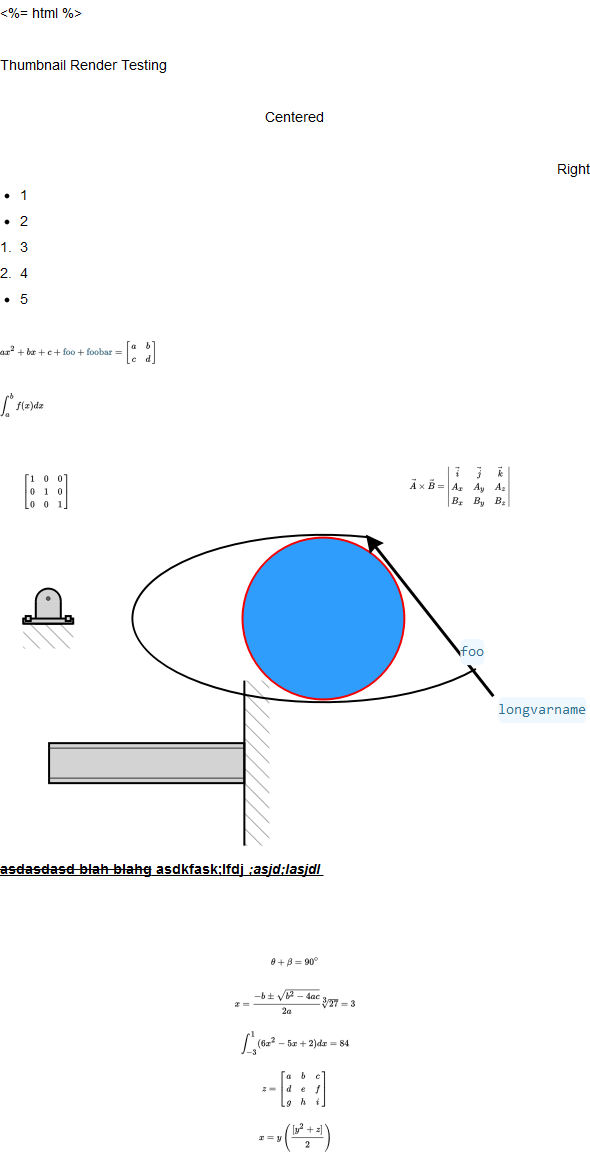
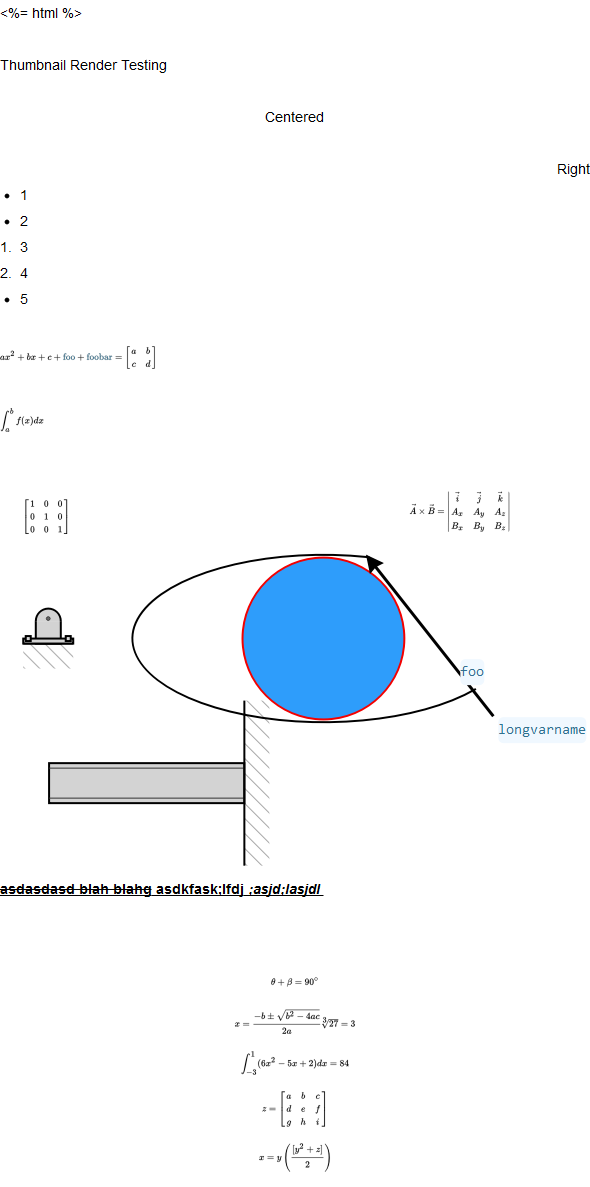
Fixes child processes for thumbnail.js, fixes test-html.js.

diff --git a/thumbnail.js b/thumbnail.js
@@ -10,28 +10,50 @@ var ejs = require('ejs');
 var fs = require('fs');
 var childProcess = require('child_process');
 //var phantom = require('phantom');
-var phantom = require('node-phantom');
+// var phantom = require('node-phantom');
 //var phantomjs = require('phantomjs');
 var binPath = 'phantomjs';
+var runImm = process.argv[2] === '--run';
+console.log('Arguments:')
+process.argv.forEach(function(val, key) {
+  console.log('  ' + key + ': ' + val);
+});
 
 var template = ejs.compile(fs.readFileSync(__dirname + '/thumbpage.ejs', 'utf-8'));
 
 var renderThumbnail = function(html, cb) {
-  console.log(html);
-  var content = template({
-    html: html
-  });
+  console.log('HTML.length:', html.length);
+  var content = '';
+  // var content = template({
+  //   html: html
+  // });
 
   console.log('CONTENT_LENGTH:', content.length);
 
-  /*var childArgs = [path.join(__dirname, 'render.js'), content];
+  var childArgs = [path.join(__dirname, 'render.js'), content];
   console.log(binPath, path.join(__dirname, 'render.js'), 'length: ' + content.length);
 
-  childProcess.execFile(binPath, childArgs, function(err, stdout, stderr) {
-    // handle results
-    if (err) throw err;
-    cb(stdout);
-  });*/
+  var child = childProcess.spawn(binPath, childArgs);
+
+  child.stdout.on('data', function (data) {
+    console.log('stdout: ' + data);
+  });
+
+  child.stderr.on('data', function (data) {
+    console.log('stderr: ' + data);
+  });
+
+  child.on('close', function (code) {
+    console.log('child process exited with code ' + code);
+  });
+
+  // childProcess.exec(binPath, childArgs, function(err, stdout, stderr) {
+  //   console.log('return:', arguments);
+
+  //   // handle results
+  //   if (err) throw err;
+  //   cb(stdout);
+  // });
 
   /*phantom.create(function(ph) {
     function render(err) {
@@ -122,41 +144,48 @@ var renderThumbnail = function(html, cb) {
     });
   });*/
 
-  phantom.create(function(error, ph) {
-    ph.createPage(function(error, page) {
-      page.settings = {
-        loadImages: true,
-        localToRemoteUrlAccessEnabled: true,
-        javascriptEnabled: true,
-        loadPlugins: false
-      };
+  // phantom.create(function(error, ph) {
+  //   ph.createPage(function(error, page) {
+  //     page.settings = {
+  //       loadImages: true,
+  //       localToRemoteUrlAccessEnabled: true,
+  //       javascriptEnabled: true,
+  //       loadPlugins: false
+  //     };
 
-      page.set('viewportSize', { width: 800, height: 600 });
-      page.set('paperSize', { format: 'A4', orientation: 'portrait', border: '1cm' });
-      page.set('content', html, function(error) {
-        if (error) {
-          console.log('Error setting content: ', error);
-        }
-      });
+  //     page.set('viewportSize', { width: 800, height: 600 });
+  //     page.set('paperSize', { format: 'A4', orientation: 'portrait', border: '1cm' });
+  //     page.set('content', html, function(error) {
+  //       if (error) {
+  //         console.log('Error setting content: ', error);
+  //       }
+  //     });
 
-      page.onResourceRequested = function(rd, req) {
-        console.log("REQUESTING: ", rd[0]["url"]);
-      };
+  //     page.onResourceRequested = function(rd, req) {
+  //       console.log("REQUESTING: ", rd[0]["url"]);
+  //     };
 
-      page.onResourceReceived = function(rd) {
-        rd.stage == "end" && console.log("LOADED: ", rd["url"]);
-      };
+  //     page.onResourceReceived = function(rd) {
+  //       rd.stage == "end" && console.log("LOADED: ", rd["url"]);
+  //     };
 
-      page.onLoadFinished = function(status) {
-        page.render('google.png', function(error) {
-          if (error) console.log('Error rendering PNG: %s', error);
-          console.log("PDF GENERATED : ", status);
-          ph.exit();
-          cb && cb();
-        });
-      };
-    });
-  });
+  //     page.onLoadFinished = function(status) {
+  //       page.render('google.png', function(error) {
+  //         if (error) console.log('Error rendering PNG: %s', error);
+  //         console.log("PDF GENERATED : ", status);
+  //         ph.exit();
+  //         cb && cb();
+  //       });
+  //     };
+  //   });
+  // });
 };
+
+if (runImm) {
+  console.log('Running immediately.');
+  renderThumbnail(fs.readFileSync('test.html').toString(), function() {
+    console.log('Proccess finished.');
+  });
+}
 
 module.exports = renderThumbnail;

diff --git a/test-html.js b/test-html.js
@@ -93,26 +93,27 @@ $(function() {
   };
 
   console.log(HtmlToLatex);
-  var $variableContainers = $('button.mathjax-render-zone');
-  $variableContainers.each(function() {
-      var $this = $(this);
-      //console.log($this);
-      $this.replaceWith(function() {
-          if (!$this.children('script.mathjax-placeholder')[0]) {
-              console.log($this[0]);
-              return '';
-          }
+  var $variableContainers = $('.mathjax-render-zone');
+  $variableContainers.html(function() {
+    var $this = $(this);
+    if (!$this.children('script.mathjax-placeholder')[0]) {
+      console.log($this[0]);
+      return '';
+    }
 
-          var mathjaxScriptTagHtml = $this.children('script.mathjax-placeholder')[0].innerHTML;
-          //console.log(mathjaxScriptTagHtml);
-          var returnStr = HtmlToLatex.parseMathjaxInput(mathjaxScriptTagHtml);
+    var mathjaxScriptTagHtml = $this.children('script.mathjax-placeholder')[0].innerHTML;
+    var returnStr = HtmlToLatex.parseMathjaxInput(mathjaxScriptTagHtml);
 
-          var string;
-          returnStr.done(function(html) {
-              string = html;
-          });
-          //console.log(string);
-          return '$\\displaystyle{' + string + '}$';
-      });
+    var string;
+    returnStr.done(function(html) {
+      string = html;
+    });
+    return '$\\displaystyle{' + string + '}$';
+  }).each(function(){
+    MathJax.Hub.Queue(["Typeset", MathJax.Hub, this]);
+  });
+
+  MathJax.Hub.Queue(function() {
+    window.allDone = 1;
   });
 });

diff --git a/render.js b/render.js
@@ -81,9 +81,9 @@ multipleIncludeJs([JQueryJS, MathJaxJS],function() {
   var allDone;
   allDone = page.evaluate(function () {
     if (window.MathJax) {
-      MathJax.Hub.Register.StartupHook('End', function () {
-        window.allDone = 1;
-      });
+      // MathJax.Hub.Register.StartupHook('End', function () {
+      //   window.allDone = 1;
+      // });
 
       return false;
     } else {
